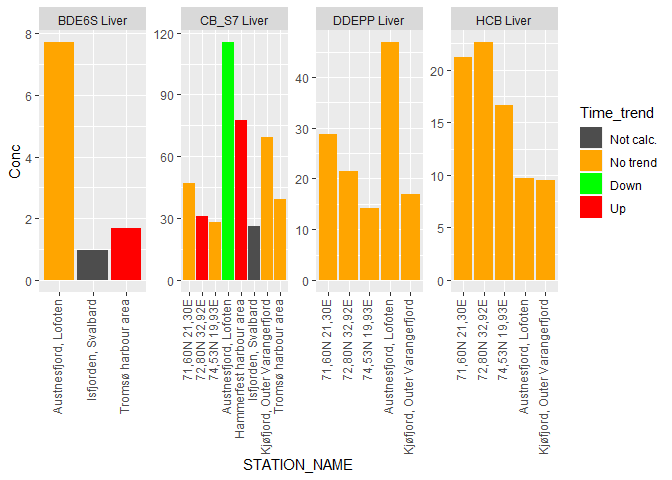
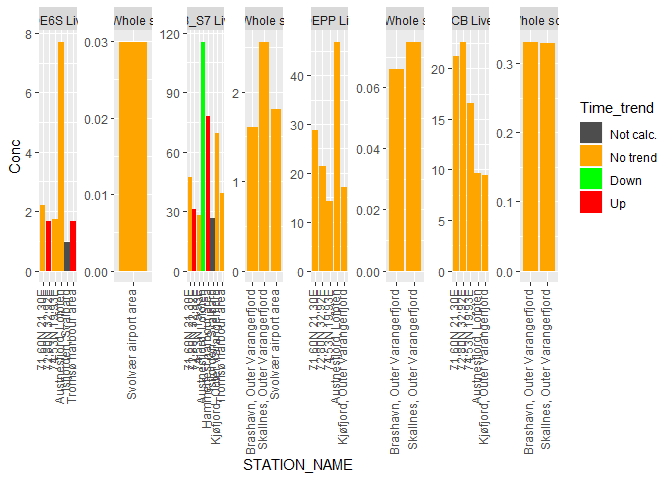
Make new export file
- Building on updated BDES results for HI stations
- Also updated value limits (Grenseverdier
xlsx file) with Hg limits also for blue mussel

Changed region(s): [[0.0, 0.0, 1.0, 0.9688], [0.4375, 0.1562, 0.4688, 0.1875]]

diff --git a/14_Combine_NIVA_NIFES_data_2020.md b/14_Combine_NIVA_NIFES_data_2020.md
@@ -44,10 +44,11 @@ library(ggplot2)
 
 
 # File name for export
-fn <- "Data_export/GaduMor_2020_withNIFES_ver01"
+fn <- "Data_export/GaduMor_2020_withNIFES_ver06"
 fn_csv <- paste0(fn, ".csv")
 fn_xlsx <- paste0(fn, ".xlsx")
 overwrite <- FALSE
+#overwrite <- TRUE
 ```
 
 ## Data
@@ -71,7 +72,7 @@ nifes_regression <- readRDS("Data/12_nifes_regression (2020).rds")
 df_limits <- read_excel("Input_data/Grenseverdier_fra_Sylvia.xlsx")
 
 # Parameters
-sel_param <- c("CD", "HG", "PB", "HCB", "DDEPP", "CB_S7")
+sel_param <- c("CD", "HG", "PB", "HCB", "DDEPP", "CB_S7", "BDE6S")
 ```
 
 
@@ -122,6 +123,7 @@ xtabs(~Parameter + TISSUE_NAME, df_nifes_finalyear)
 ```
 ##          TISSUE_NAME
 ## Parameter Liver Muscle
+##     BDE6S     3      0
 ##     CB_S7     3      0
 ##     CD        3      0
 ##     DDEPP     3      0
@@ -163,18 +165,19 @@ nrow(df_indicator_nifes)
 ```
 
 ```
-## [1] 18
+## [1] 21
 ```
 
 ```r
-df_indicator_nifes <- left_join(df_indicator_nifes, 
-                                nifes_regression[,c("PARAM", "TISSUE_NAME", "STATION_NAME", "trend")],
-                                by = c("STATION_NAME", "PARAM", "TISSUE_NAME"))
+df_indicator_nifes <- left_join(
+  df_indicator_nifes, 
+  nifes_regression[,c("PARAM", "TISSUE_NAME", "STATION_NAME", "trend")],
+  by = c("STATION_NAME", "PARAM", "TISSUE_NAME"))
 nrow(df_indicator_nifes)
 ```
 
 ```
-## [1] 18
+## [1] 21
 ```
 
 ```r
@@ -201,7 +204,7 @@ nrow(df_indicator2)  # 45
 ```
 
 ```
-## [1] 45
+## [1] 65
 ```
 
 ```r
@@ -228,7 +231,7 @@ df_indicator2 %>%
 
 <div data-pagedtable="false">
   <script data-pagedtable-source type="application/json">
-{"columns":[{"label":["STATION_NAME"],"name":[1],"type":["chr"],"align":["left"]},{"label":["LATITUDE"],"name":[2],"type":["dbl"],"align":["right"]},{"label":["LONGITUDE"],"name":[3],"type":["dbl"],"align":["right"]},{"label":["n"],"name":[4],"type":["int"],"align":["right"]}],"data":[{"1":"Austnesfjord, Lofoten","2":"68.18577","3":"14.70814","4":"7"},{"1":"Tromsø harbour area","2":"69.65300","3":"18.97400","4":"5"},{"1":"Kjøfjord, Outer Varangerfjord","2":"69.81623","3":"29.76020","4":"6"},{"1":"Hammerfest harbour area","2":"70.65000","3":"23.63333","4":"4"},{"1":"71,60N 21,30E","2":"71.60000","3":"21.30000","4":"6"},{"1":"72,80N 32,92E","2":"72.80000","3":"32.92000","4":"6"},{"1":"74,53N 19,93E","2":"74.53000","3":"19.93000","4":"6"},{"1":"Isfjorden, Svalbard","2":"78.17000","3":"13.46000","4":"5"}],"options":{"columns":{"min":{},"max":[10]},"rows":{"min":[10],"max":[10]},"pages":{}}}
+{"columns":[{"label":["STATION_NAME"],"name":[1],"type":["chr"],"align":["left"]},{"label":["LATITUDE"],"name":[2],"type":["dbl"],"align":["right"]},{"label":["LONGITUDE"],"name":[3],"type":["dbl"],"align":["right"]},{"label":["n"],"name":[4],"type":["int"],"align":["right"]}],"data":[{"1":"Austnesfjord, Lofoten","2":"68.18577","3":"14.70814","4":"7"},{"1":"Svolvær airport area","2":"68.24917","3":"14.66270","4":"5"},{"1":"Tromsø harbour area","2":"69.65300","3":"18.97400","4":"5"},{"1":"Kjøfjord, Outer Varangerfjord","2":"69.81623","3":"29.76020","4":"6"},{"1":"Brashavn, Outer Varangerfjord","2":"69.89930","3":"29.74100","4":"6"},{"1":"Skallnes, Outer Varangerfjord","2":"70.13728","3":"30.34174","4":"6"},{"1":"Hammerfest harbour area","2":"70.65000","3":"23.63333","4":"4"},{"1":"71,60N 21,30E","2":"71.60000","3":"21.30000","4":"7"},{"1":"72,80N 32,92E","2":"72.80000","3":"32.92000","4":"7"},{"1":"74,53N 19,93E","2":"74.53000","3":"19.93000","4":"7"},{"1":"Isfjorden, Svalbard","2":"78.17000","3":"13.46000","4":"5"}],"options":{"columns":{"min":{},"max":[10]},"rows":{"min":[10],"max":[10]},"pages":{}}}
   </script>
 </div>
 
@@ -255,7 +258,7 @@ nrow(df_indicator2) # 94
 ```
 
 ```
-## [1] 45
+## [1] 65
 ```
 
 ```r
@@ -266,7 +269,7 @@ nrow(df_indicator2) # 94
 ```
 
 ```
-## [1] 45
+## [1] 65
 ```
 
 ```r
@@ -275,7 +278,7 @@ sel <- df_indicator2$PARAM %in% "CB_S7"; sum(sel)
 ```
 
 ```
-## [1] 8
+## [1] 11
 ```
 
 ```r
@@ -293,9 +296,9 @@ xtabs(~KLASSE + PARAM, df_indicator2)
 ```
 ##       PARAM
 ## KLASSE BDE6S CB_S7 CD DDEPP HCB HG PB
-##      1     3     8  4     5   2  7  8
-##      2     0     0  3     0   3  1  0
-##      3     0     0  1     0   0  0  0
+##      1     7     8  4     7   2  9 11
+##      2     0     2  5     0   3  2  0
+##      3     0     1  2     0   2  0  0
 ```
 
 ```r
@@ -318,9 +321,9 @@ xtabs(~addNA(EQS) + PARAM, df_indicator2)
 ```
 ##           PARAM
 ## addNA(EQS) BDE6S CB_S7 CD DDEPP HCB HG PB
-##       1        0     0  0     5   2  1  0
-##       2        3     8  0     0   3  7  0
-##       <NA>     0     0  8     0   0  0  8
+##       1        0     0  0     7   4  4  0
+##       2        7    11  0     0   3  7  0
+##       <NA>     0     0 11     0   0  0 11
 ```
 
 ```r
@@ -346,7 +349,7 @@ nrow(df_indicator2)
 ```
 
 ```
-## [1] 45
+## [1] 65
 ```
 
 ```r
@@ -358,7 +361,7 @@ nrow(df_indicator2)
 ```
 
 ```
-## [1] 45
+## [1] 65
 ```
 
 ```r
@@ -377,7 +380,7 @@ xtabs(~addNA(Mattrygghet) + PARAM + TISSUE_NAME, df_indicator2)
 ##                   PARAM
 ## addNA(Mattrygghet) BDE6S CB_S7 CD DDEPP HCB HG PB
 ##               1        0     8  0     0   0  0  0
-##               <NA>     3     0  8     5   5  0  8
+##               <NA>     6     0  8     5   5  0  8
 ## 
 ## , , TISSUE_NAME = Muscle
 ## 
@@ -385,6 +388,13 @@ xtabs(~addNA(Mattrygghet) + PARAM + TISSUE_NAME, df_indicator2)
 ## addNA(Mattrygghet) BDE6S CB_S7 CD DDEPP HCB HG PB
 ##               1        0     0  0     0   0  8  0
 ##               <NA>     0     0  0     0   0  0  0
+## 
+## , , TISSUE_NAME = Whole soft body
+## 
+##                   PARAM
+## addNA(Mattrygghet) BDE6S CB_S7 CD DDEPP HCB HG PB
+##               1        0     3  3     0   0  3  3
+##               <NA>     1     0  0     2   2  0  0
 ```
 
 ```r
@@ -401,7 +411,7 @@ df_indicator2 <- df_indicator2 %>%
   arrange(PARAM,LONGITUDE,LATITUDE)
 
 # Save with all variables
-saveRDS(df_indicator2, file = "Data/14_df_indicator2_cod_ver01 (2020.rds")
+saveRDS(df_indicator2, file = "Data/14_df_indicator2_cod_ver03 (2020.rds")
 
 # Save with selected variables
 vars <- c("PROJECT_ID", "STATION_CODE", "STATION_NAME", 
@@ -414,7 +424,7 @@ sum(sel)
 ```
 
 ```
-## [1] 45
+## [1] 65
 ```
 
 ```r
@@ -445,7 +455,7 @@ write_safe(df_indicator2[sel,vars], filename = fn_csv, save_function = write.csv
 ```
 
 ```
-## File Data_export/GaduMor_2020_withNIFES_ver01.csv exists, data not saved.
+## File Data_export/GaduMor_2020_withNIFES_ver06.csv exists, data not saved.
 ## Set 'overwrite = TRUE' to overwrite file anyway.
 ```
 
@@ -456,7 +466,7 @@ write_safe(df_indicator2[sel,vars], filename = fn_xlsx, save_function = openxlsx
 ```
 
 ```
-## File Data_export/GaduMor_2020_withNIFES_ver01.xlsx exists, data not saved.
+## File Data_export/GaduMor_2020_withNIFES_ver06.xlsx exists, data not saved.
 ## Set 'overwrite = TRUE' to overwrite file anyway.
 ```
 
